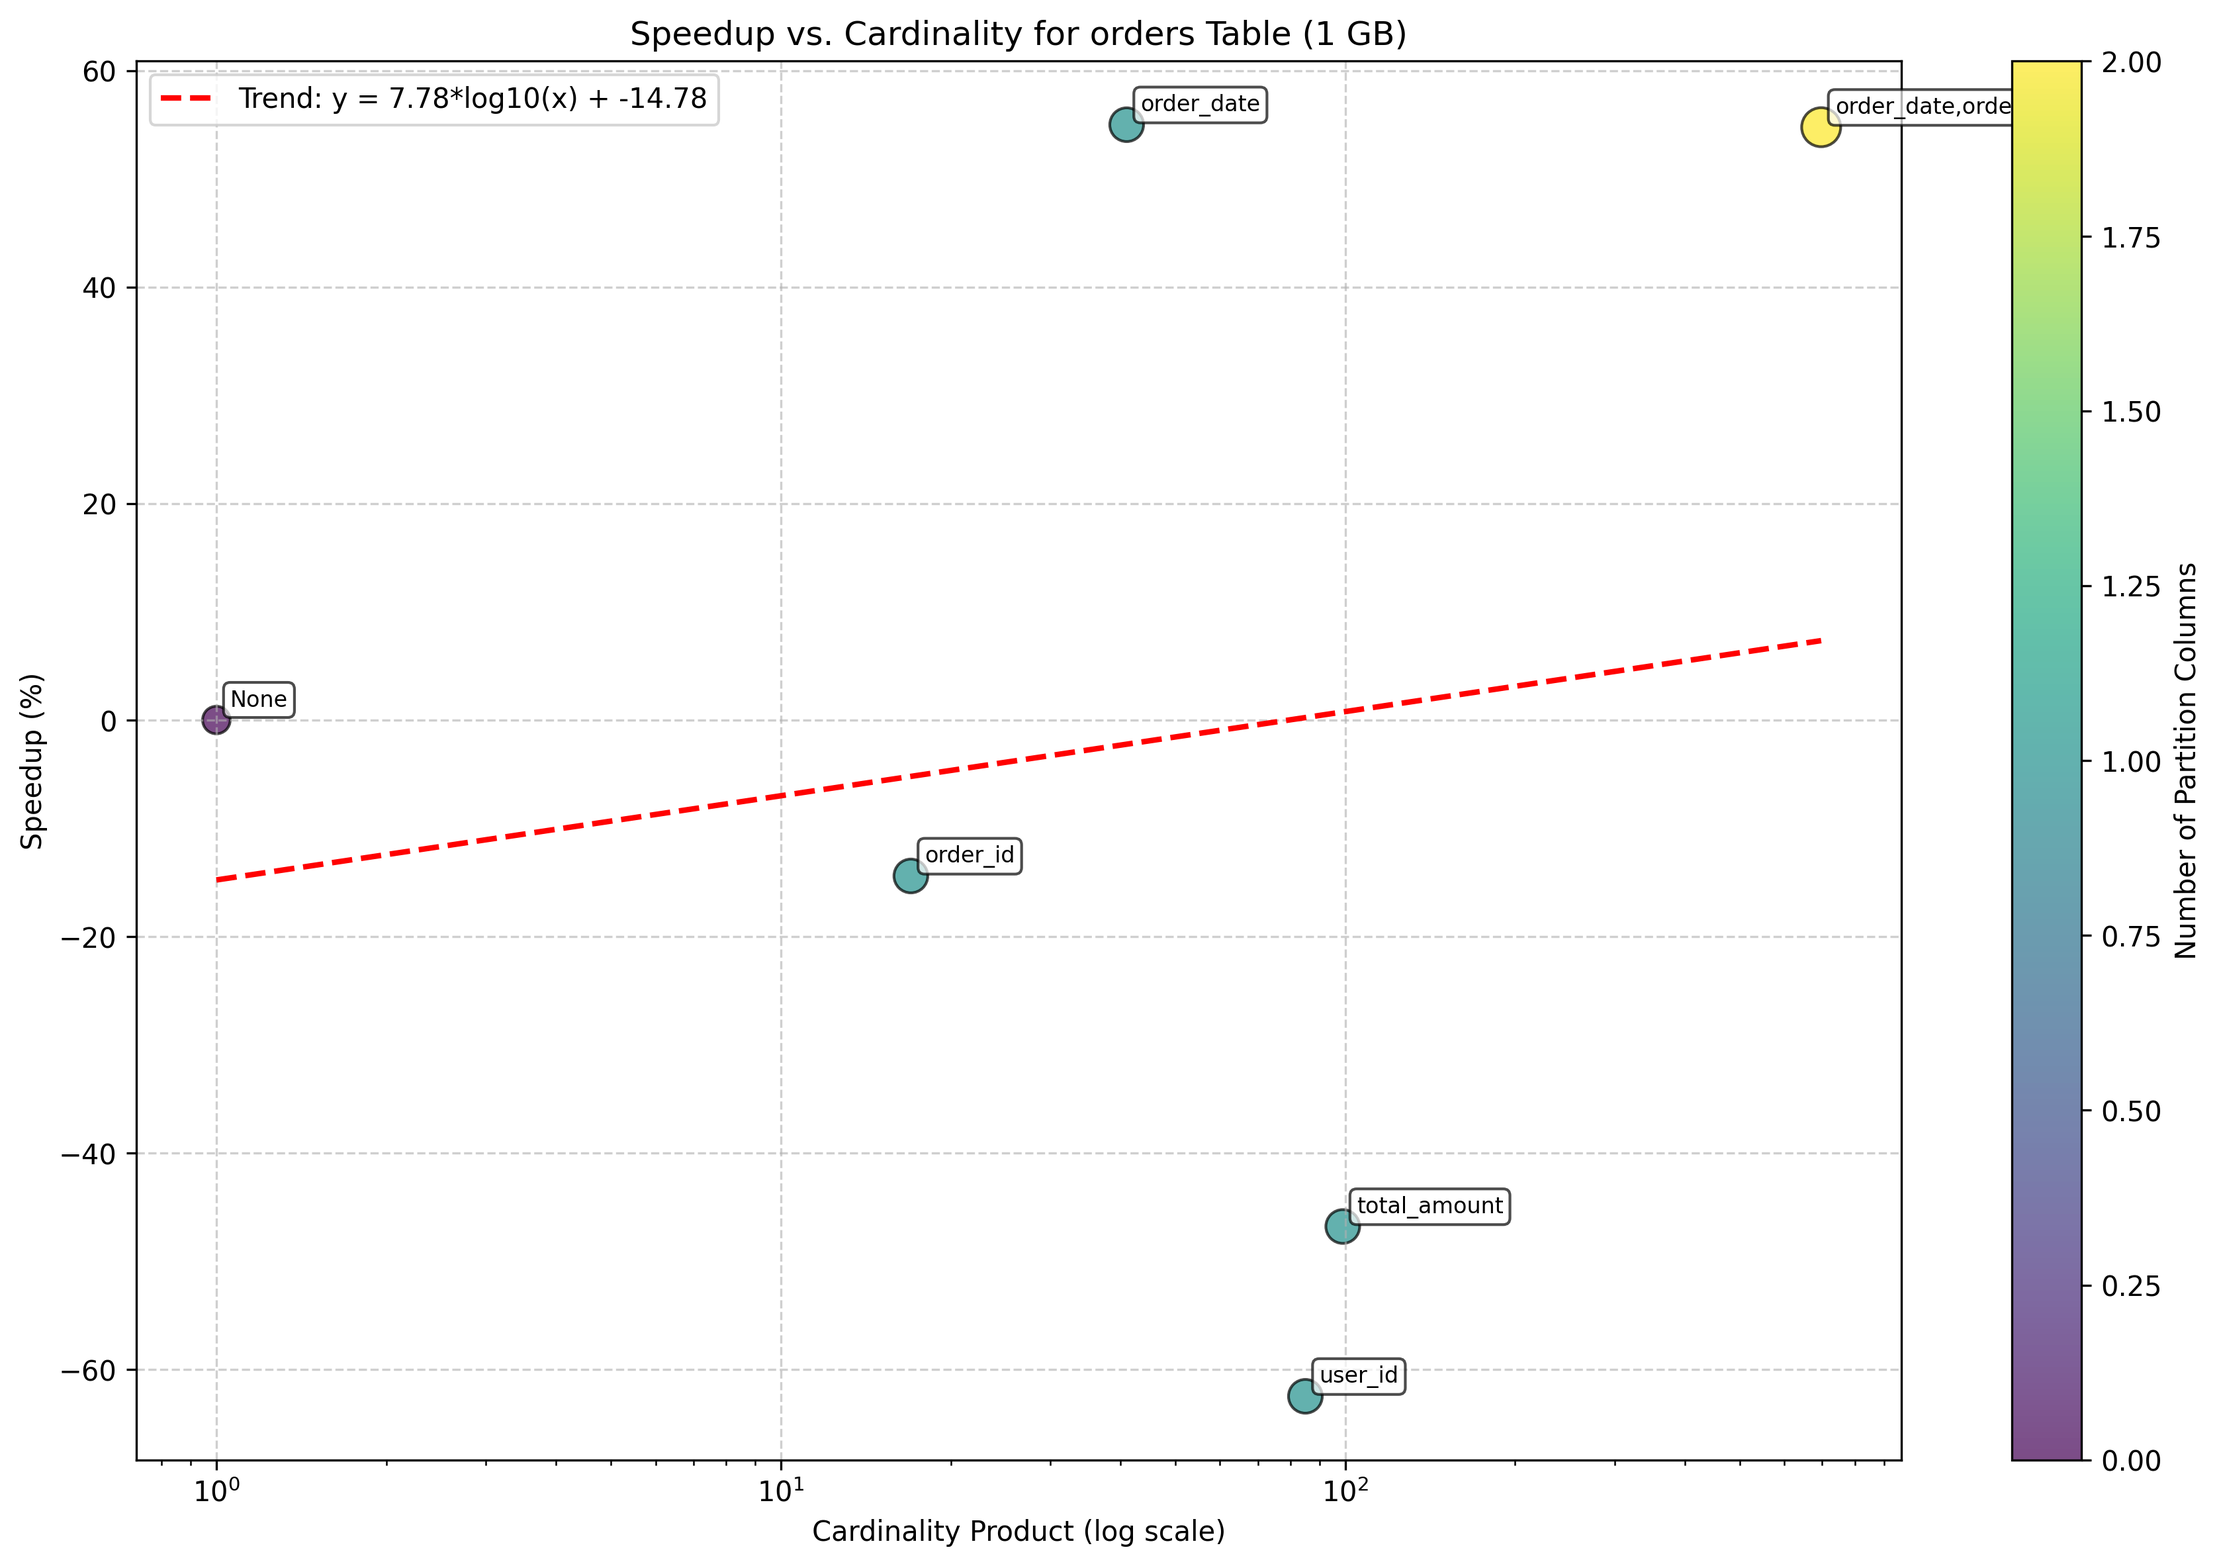
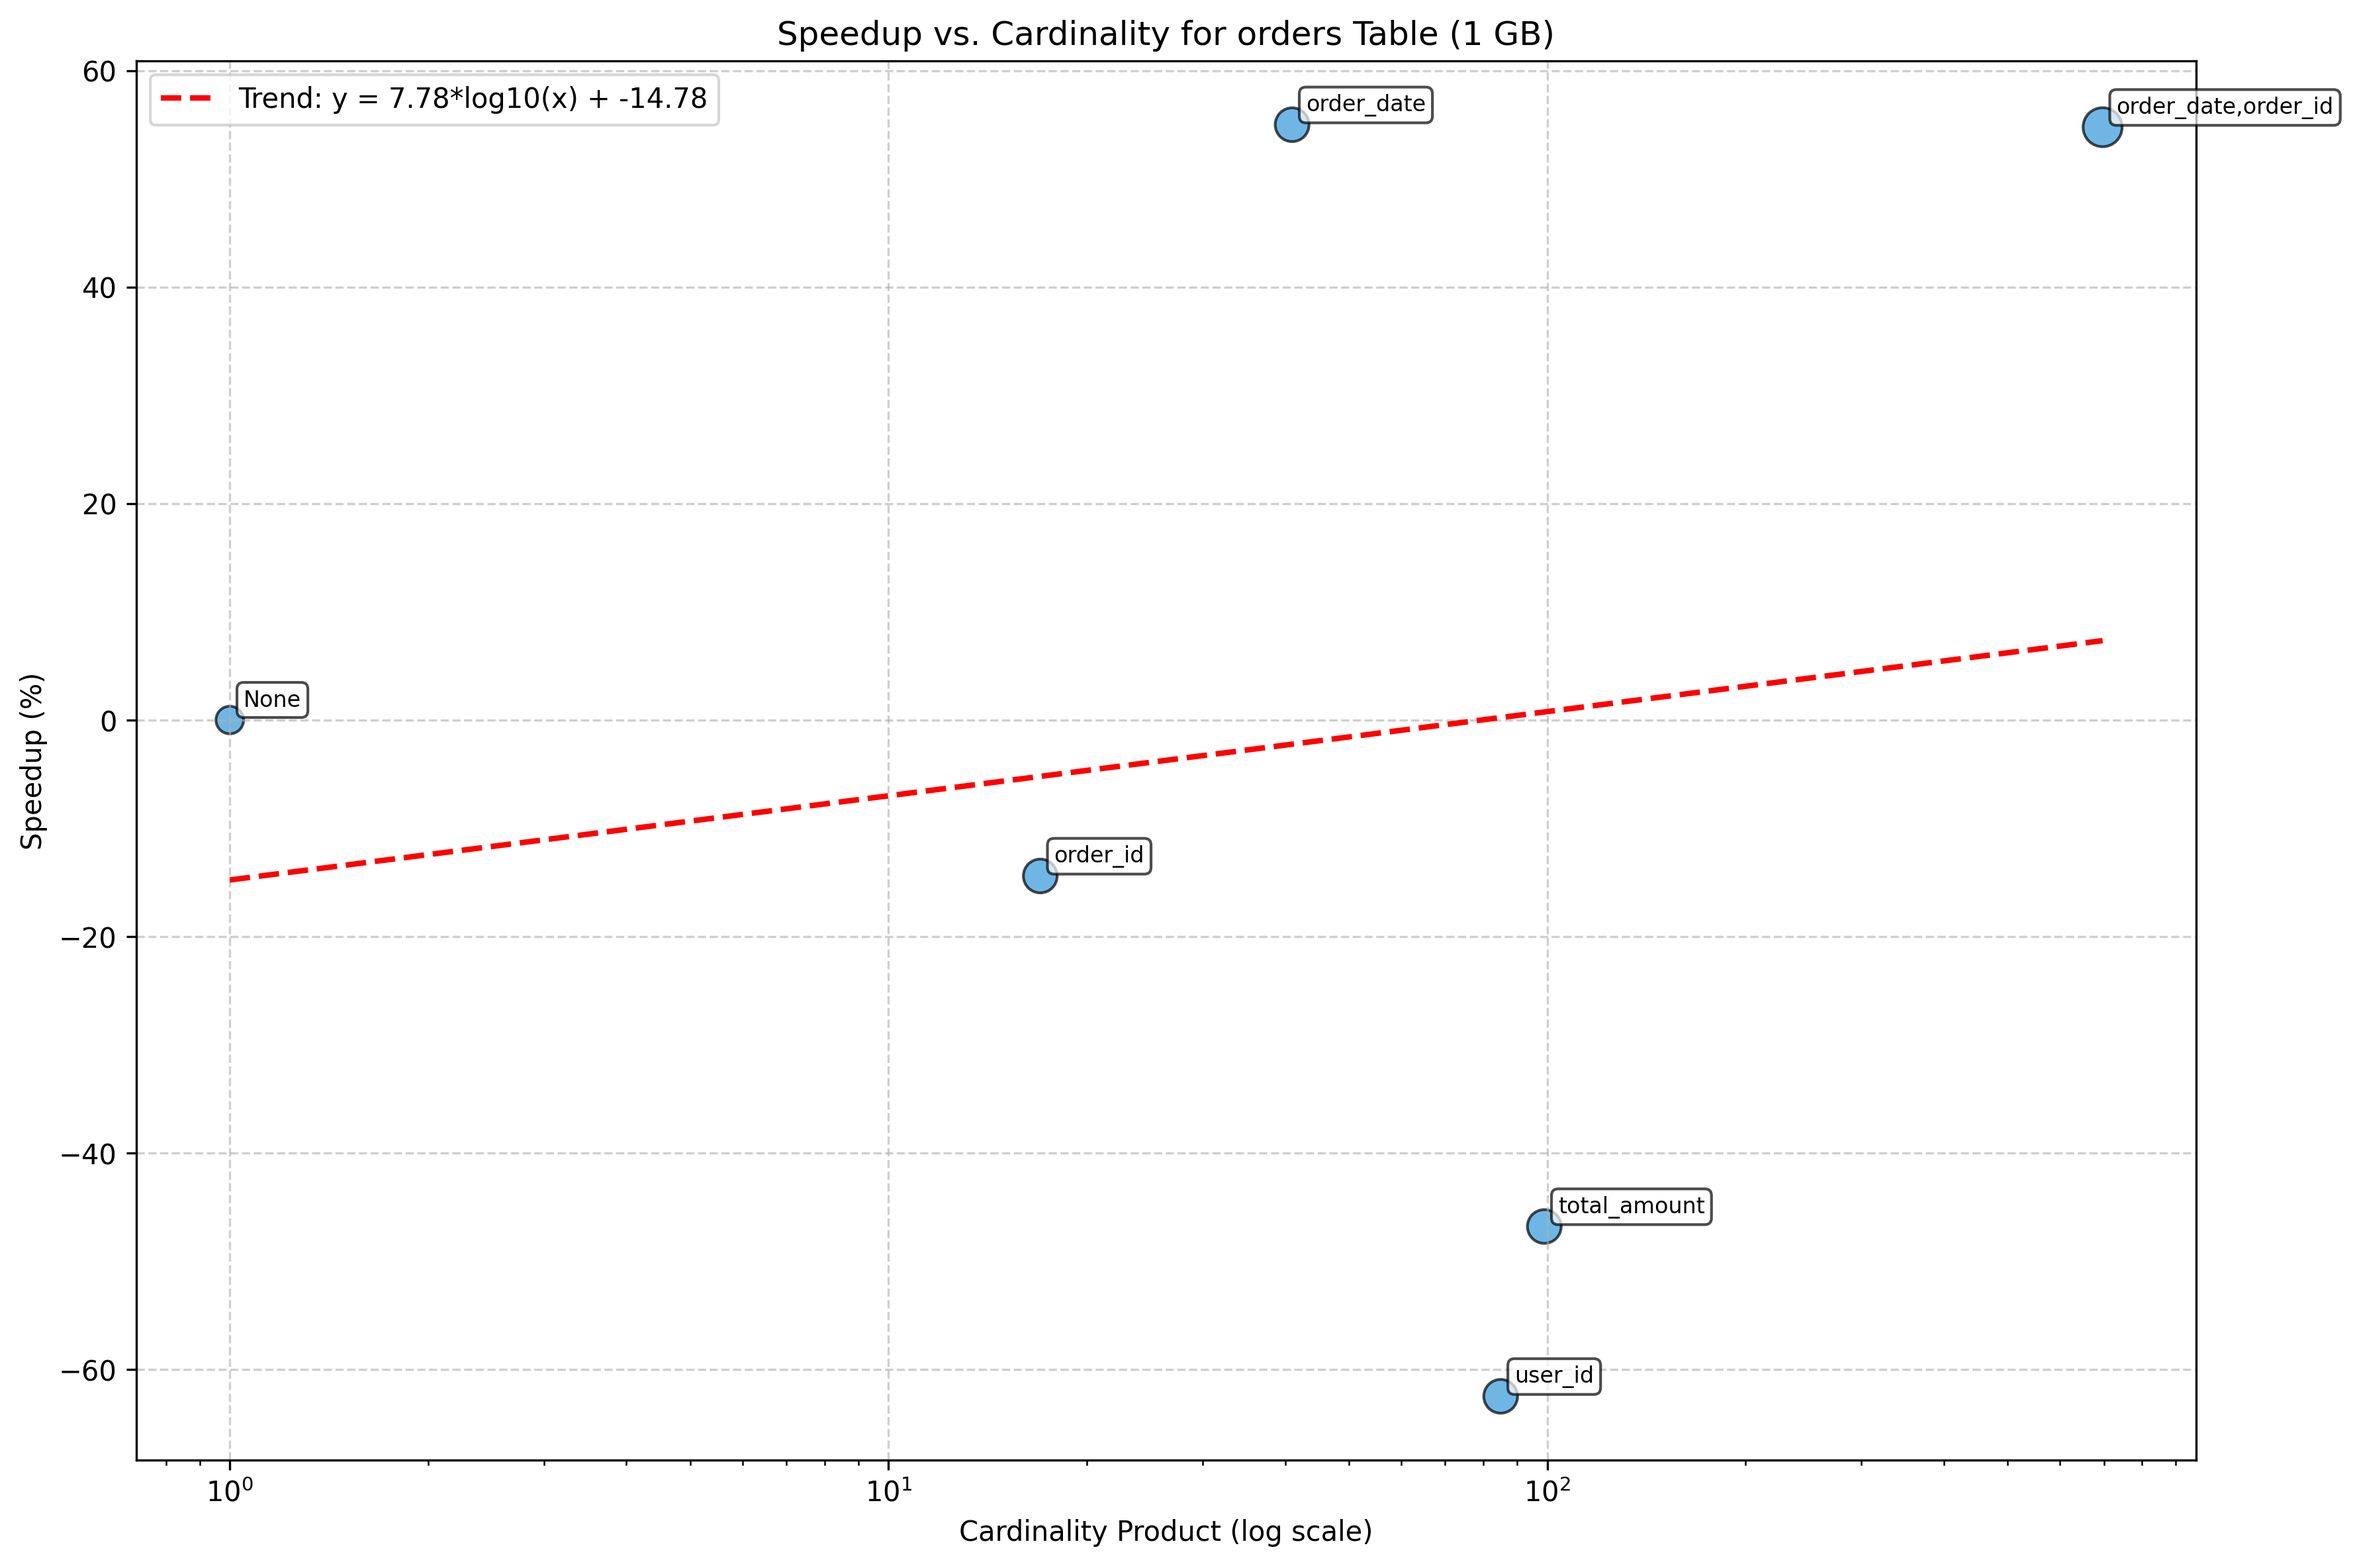
Updated plots (no colors on scatter plot and total execution times)

diff --git a/src/plot_generation.py b/src/plot_generation.py
@@ -20,9 +20,11 @@ def load_data_from_directories(
         Dictionary of dataframes with structure {size: {algorithm: dataframe}}
     """
     all_data = {}
+    algorithm_times = {}
 
     for size in sizes:
         size_data = {}
+        algorithm_times[size] = {}
         for alg in algorithms:
             dir_path = os.path.join(base_path, f"algorithm_{alg}_{size}")
 
@@ -44,6 +46,10 @@ def load_data_from_directories(
                         )
                         algorithm = data.get("algorithm", f"algorithm_{alg}")
                         data_size = data.get("data_size_MiB", size)
+
+                        # Store the total algorithm time
+                        if "total_algorithm_time" in data:
+                            algorithm_times[size][alg] = data["total_algorithm_time"]
 
                         # Process results
                         for result in data.get("results", []):
@@ -81,7 +87,7 @@ def load_data_from_directories(
         if size_data:
             all_data[size] = size_data
 
-    return all_data
+    return all_data, algorithm_times
 
 
 def plot_best_speedup_by_size(data_dict):
@@ -217,58 +223,38 @@ def plot_best_speedup_by_size(data_dict):
     return {"algorithm1": best_speedups_alg1, "algorithm2": best_speedups_alg2}
 
 
-def plot_execution_time_by_size(data_dict):
+def plot_execution_time_by_size(algorithm_times):
     """
-    Compare absolute execution times (not speedup) for algorithm 1 and 2
-    across different data sizes
+    Compare total algorithm execution times for algorithm 1 and 2
+    across different data sizes using the total_algorithm_time field from the JSON files
     """
-    sizes = sorted(data_dict.keys())
+    sizes = sorted(algorithm_times.keys())
     exec_times_alg1 = []
     exec_times_alg2 = []
 
-    print(f"Plotting execution time by size with {len(sizes)} size points: {sizes}")
+    print(
+        f"Plotting total algorithm execution time by size with {len(sizes)} size points: {sizes}"
+    )
 
     for size in sizes:
-        # Process Algorithm 1 data
-        if 1 in data_dict[size]:
-            df = data_dict[size][1]
-            # Find the baseline (no partitioning) execution time for each table
-            baseline_times = df[df["partition_columns"] == "None"]["execution_time"]
-            if not baseline_times.empty:
-                avg_time = baseline_times.mean()
-                exec_times_alg1.append(avg_time)
-                print(
-                    f"  Size {size} GB (Alg 1): Average execution time = {avg_time:.2f}s"
-                )
-            else:
-                # Use average of all execution times if no baseline found
-                avg_time = df["execution_time"].mean()
-                exec_times_alg1.append(avg_time)
-                print(
-                    f"  Size {size} GB (Alg 1): No baseline found, using average time = {avg_time:.2f}s"
-                )
+        # Get Algorithm 1 execution time
+        if 1 in algorithm_times[size]:
+            exec_time = algorithm_times[size][1]
+            exec_times_alg1.append(exec_time)
+            print(
+                f"  Size {size} GB (Alg 1): Total algorithm execution time = {exec_time:.2f}s"
+            )
         else:
             exec_times_alg1.append(0)  # No data for this size
             print(f"  Size {size} GB (Alg 1): No data available")
 
-        # Process Algorithm 2 data
-        if 2 in data_dict[size]:
-            df = data_dict[size][2]
-            # Find the baseline (no partitioning) execution time for each table
-            baseline_times = df[df["partition_columns"] == "None"]["execution_time"]
-            if not baseline_times.empty:
-                avg_time = baseline_times.mean()
-                exec_times_alg2.append(avg_time)
-                print(
-                    f"  Size {size} GB (Alg 2): Average execution time = {avg_time:.2f}s"
-                )
-            else:
-                # Use average of all execution times if no baseline found
-                avg_time = df["execution_time"].mean()
-                exec_times_alg2.append(avg_time)
-                print(
-                    f"  Size {size} GB (Alg 2): No baseline found, using average time = {avg_time:.2f}s"
-                )
+        # Get Algorithm 2 execution time
+        if 2 in algorithm_times[size]:
+            exec_time = algorithm_times[size][2]
+            exec_times_alg2.append(exec_time)
+            print(
+                f"  Size {size} GB (Alg 2): Total algorithm execution time = {exec_time:.2f}s"
+            )
         else:
             exec_times_alg2.append(0)  # No data for this size
             print(f"  Size {size} GB (Alg 2): No data available")
@@ -298,9 +284,9 @@ def plot_execution_time_by_size(data_dict):
         )
 
         plt.xticks(sizes, [f"{s} GB" for s in sizes])
-        plt.ylabel("Execution Time (seconds)")
+        plt.ylabel("Total Algorithm Execution Time (seconds)")
         plt.xlabel("Data Size")
-        plt.title("Comparison of Execution Times Across Data Sizes")
+        plt.title("Comparison of Total Algorithm Execution Times Across Data Sizes")
         plt.grid(True, linestyle="--", alpha=0.7)
         plt.legend()
 
@@ -334,10 +320,10 @@ def plot_execution_time_by_size(data_dict):
             fontsize=12,
             transform=plt.gca().transAxes,
         )
-        plt.title("Data Error: Execution Times Across Data Sizes")
+        plt.title("Data Error: Total Algorithm Execution Times Across Data Sizes")
 
     plt.tight_layout()
-    save_path = "plots/execution_time_by_size.png"
+    save_path = "plots/total_algorithm_execution_time.png"
     plt.savefig(save_path, dpi=300, bbox_inches="tight")
     plt.close()
 
@@ -533,9 +519,8 @@ def plot_speedup_vs_cardinality(data_dict, table_name="orders", size=1, algorith
     scatter = plt.scatter(
         table_df["cardinality_product"],
         -1 * table_df["time_difference_percent"],
-        c=table_df["column_count"],
         s=100 + 50 * table_df["column_count"],  # Size based on number of columns
-        cmap="viridis",
+        color="#3498db",
         alpha=0.7,
         edgecolors="black",
     )
@@ -559,9 +544,9 @@ def plot_speedup_vs_cardinality(data_dict, table_name="orders", size=1, algorith
     plt.title(f"Speedup vs. Cardinality for {table_name} Table ({size} GB)")
     plt.grid(True, linestyle="--", alpha=0.6)
 
-    # Add a color bar to show column count
-    cbar = plt.colorbar(scatter)
-    cbar.set_label("Number of Partition Columns")
+    # # Add a color bar to show column count
+    # cbar = plt.colorbar(scatter)
+    # cbar.set_label("Number of Partition Columns")
 
     # Add a trend line if enough points
     if len(table_df) >= 3:
@@ -650,7 +635,7 @@ def main():
 
     # Load data from all directories
     print("Loading data from directories...")
-    data_dict = load_data_from_directories()
+    data_dict, algorithm_times = load_data_from_directories()
 
     if not data_dict:
         print("No data found in the specified directories.")
@@ -666,7 +651,7 @@ def main():
     print("✓ Generated best speedup by size chart")
 
     # Plot 2: Execution time by size (not speedup)
-    plot_execution_time_by_size(data_dict)
+    plot_execution_time_by_size(algorithm_times)
     print("✓ Generated execution time by size chart")
 
     # Plot 3: Products column speedup
@@ -684,6 +669,11 @@ def main():
         for algorithm in algorithms:
             plot_speedup_vs_cardinality(
                 data_dict, table_name="orders", size=size, algorithm=algorithm
+            )
+    for size in sizes:
+        for algorithm in algorithms:
+            plot_speedup_vs_cardinality(
+                data_dict, table_name="products", size=size, algorithm=algorithm
             )
     print("✓ Generated speedup vs cardinality charts")
 
